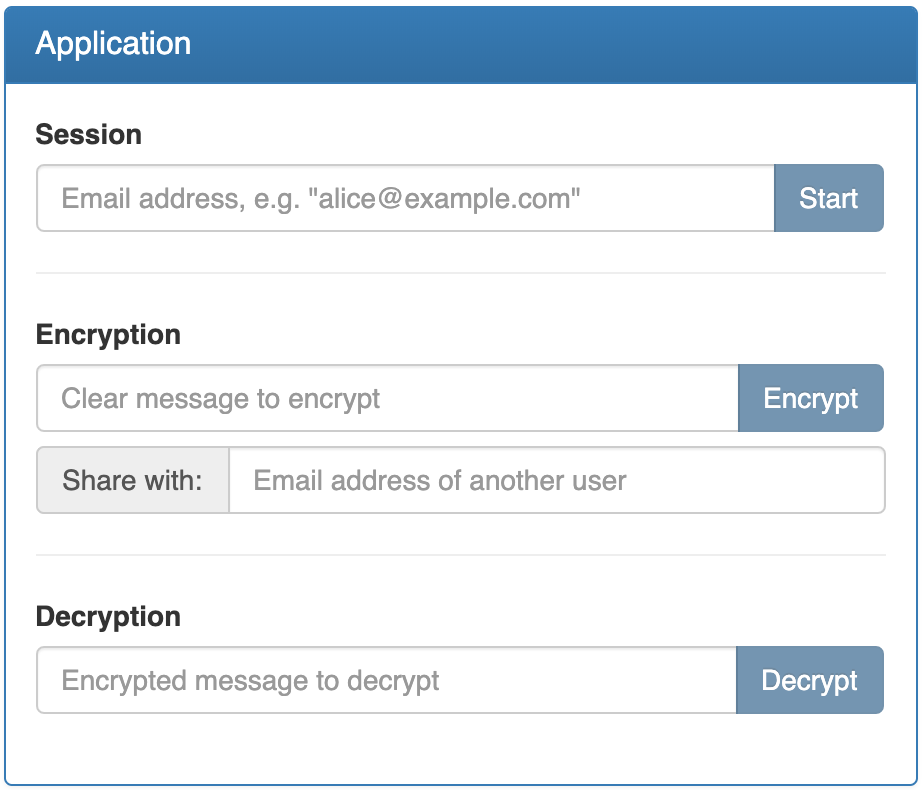
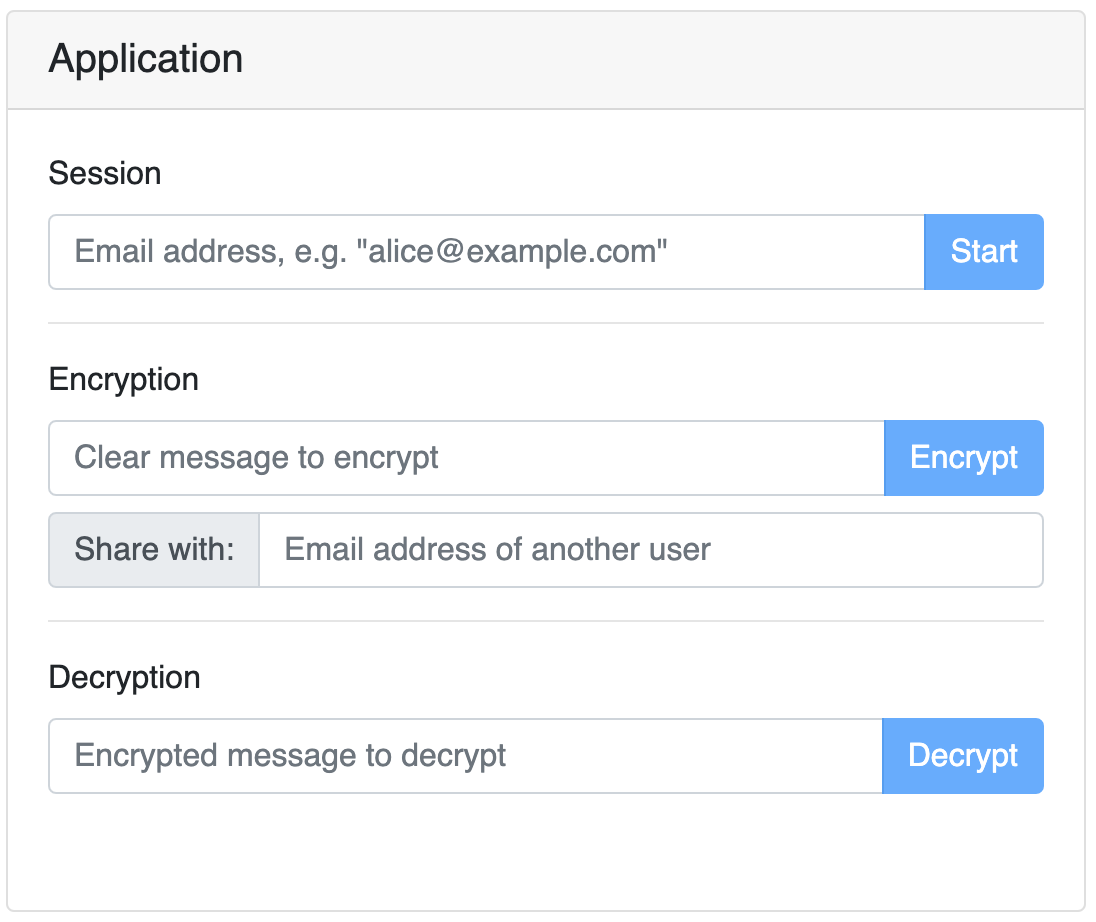
refactor(api-observer): migrate to bootstrap 4

Changed region(s): [[0.0, 0.0, 1.0, 1.0], [0.0304, 0.1519, 0.6377, 0.3038], [0.0304, 0.6987, 0.4859, 0.881]]

diff --git a/client/web/api-observer/src/App.js b/client/web/api-observer/src/App.js
@@ -1,9 +1,9 @@
 import React, { Component } from 'react';
-import { Button, Col, ControlLabel, FormGroup, FormControl, Grid, InputGroup, PageHeader, Panel, Row } from 'react-bootstrap';
+import { Button, Card, Col, Container, FormControl, FormGroup, FormLabel, InputGroup, Row } from 'react-bootstrap';
 import * as emailValidator from 'email-validator';
 import Tanker, { toBase64, fromBase64, errors } from '@tanker/client-browser';
 
-import { getEntry, LogPanel } from './log';
+import { getEntry, LogCard } from './log';
 
 const {
   STOPPED,
@@ -205,20 +205,33 @@ class App extends Component {
     const sessionButtonDisabled = email === '' || !emailValidator.validate(email) || [STOPPED, READY].indexOf(this.tanker.status) === -1;
     const encryptButtonDisabled = sessionButtonDisabled || clearText === '' || (!!shareWith && !emailValidator.validate(shareWith));
 
+    const sessionButtonType = (loading || this.tanker.status !== READY) ? 'Start' : 'Stop';
+    const sessionButton = (
+      <Button
+        variant="primary"
+        onClick={sessionButtonType === 'Start' ? this.onStart : this.onStop}
+        disabled={sessionButtonDisabled}
+      >
+        {sessionButtonType}
+      </Button>
+    );
+
     return (
-      <Grid>
+      <Container>
         <Row>
-          <Col lgOffset={1} md={12} lg={10}>
-
-            <PageHeader>Tanker API Observer</PageHeader>
-
+          <Col md={12}>
+            <div className="page-header">
+              <h1>Tanker API Observer</h1>
+            </div>
             <Row>
-              <Col md={6}>
-                <Panel bsStyle="primary">
-                  <Panel.Heading><Panel.Title componentClass="h5">Application</Panel.Title></Panel.Heading>
-                  <Panel.Body>
+              <Col lg={6} md={12}>
+                <Card variant="primary">
+                  <Card.Header>
+                    <Card.Title>Application</Card.Title>
+                  </Card.Header>
+                  <Card.Body>
                     <FormGroup>
-                      <ControlLabel>Session</ControlLabel>
+                      <FormLabel>Session</FormLabel>
                       <InputGroup>
                         <FormControl
                           id="email"
@@ -237,31 +250,14 @@ class App extends Component {
                           }}
                           disabled={loading || this.tanker.status !== STOPPED}
                         />
-                        <InputGroup.Button>
-                          {(loading || this.tanker.status !== READY) && (
-                            <Button
-                              bsStyle="primary"
-                              onClick={this.onStart}
-                              disabled={sessionButtonDisabled}
-                            >
-                              Start
-                            </Button>
-                          )}
-                          {!loading && this.tanker.status === READY && (
-                            <Button
-                              bsStyle="danger"
-                              onClick={this.onStop}
-                              disabled={sessionButtonDisabled}
-                            >
-                              Stop
-                            </Button>
-                          )}
-                        </InputGroup.Button>
+                        <InputGroup.Append>
+                          {sessionButton}
+                        </InputGroup.Append>
                       </InputGroup>
                     </FormGroup>
                     <hr />
                     <FormGroup>
-                      <ControlLabel>Encryption</ControlLabel>
+                      <FormLabel>Encryption</FormLabel>
                       <InputGroup>
                         <FormControl
                           id="clearText"
@@ -274,18 +270,20 @@ class App extends Component {
                             }
                           }}
                         />
-                        <InputGroup.Button>
+                        <InputGroup.Append>
                           <Button
-                            bsStyle="primary"
+                            variant="primary"
                             onClick={this.onEncrypt}
                             disabled={encryptButtonDisabled}
                           >
                             Encrypt
                           </Button>
-                        </InputGroup.Button>
+                        </InputGroup.Append>
                       </InputGroup>
                       <InputGroup style={{ marginTop: '.5em' }}>
-                        <InputGroup.Addon>Share with:</InputGroup.Addon>
+                        <InputGroup.Prepend>
+                          <InputGroup.Text>Share with:</InputGroup.Text>
+                        </InputGroup.Prepend>
                         <FormControl
                           id="shareWith"
                           name="shareWith"
@@ -297,7 +295,7 @@ class App extends Component {
                     </FormGroup>
                     <hr />
                     <FormGroup>
-                      <ControlLabel>Decryption</ControlLabel>
+                      <FormLabel>Decryption</FormLabel>
                       <InputGroup>
                         <FormControl
                           id="encryptedText"
@@ -310,27 +308,27 @@ class App extends Component {
                             }
                           }}
                         />
-                        <InputGroup.Button>
+                        <InputGroup.Append>
                           <Button
-                            bsStyle="primary"
+                            variant="primary"
                             onClick={this.onDecrypt}
                             disabled={encryptedText === ''}
                           >
                             Decrypt
                           </Button>
-                        </InputGroup.Button>
+                        </InputGroup.Append>
                       </InputGroup>
                     </FormGroup>
-                  </Panel.Body>
-                </Panel>
+                  </Card.Body>
+                </Card>
               </Col>
-              <Col md={6}>
-                <LogPanel entries={log} />
+              <Col lg={6} md={12}>
+                <LogCard entries={log} />
               </Col>
             </Row>
           </Col>
         </Row>
-      </Grid>
+      </Container>
     );
   }
 }

diff --git a/client/web/api-observer/public/index.html b/client/web/api-observer/public/index.html
@@ -5,9 +5,12 @@
   <meta charset="utf-8">
   <meta name="viewport" content="width=device-width, initial-scale=1, shrink-to-fit=no">
   <meta name="theme-color" content="#000000">
-  <link rel="stylesheet" href="https://maxcdn.bootstrapcdn.com/bootstrap/3.3.7/css/bootstrap.min.css" integrity="sha384-BVYiiSIFeK1dGmJRAkycuHAHRg32OmUcww7on3RYdg4Va+PmSTsz/K68vbdEjh4u" crossorigin="anonymous">
-  <link rel="stylesheet" href="https://maxcdn.bootstrapcdn.com/bootstrap/3.3.7/css/bootstrap-theme.min.css" integrity="sha384-rHyoN1iRsVXV4nD0JutlnGaslCJuC7uwjduW9SVrLvRYooPp2bWYgmgJQIXwl/Sp" crossorigin="anonymous">
-
+  <link
+    rel="stylesheet"
+    href="https://maxcdn.bootstrapcdn.com/bootstrap/4.4.1/css/bootstrap.min.css"
+    integrity="sha384-Vkoo8x4CGsO3+Hhxv8T/Q5PaXtkKtu6ug5TOeNV6gBiFeWPGFN9MuhOf23Q9Ifjh"
+    crossorigin="anonymous"
+  />
   <link rel="shortcut icon" href="%PUBLIC_URL%/favicon.ico">
   <!--
       Notice the use of %PUBLIC_URL% in the tags above.

diff --git a/client/web/api-observer/src/log/LogCard.js b/client/web/api-observer/src/log/LogCard.js
@@ -1,16 +1,16 @@
 import React from 'react';
-import { Badge, Panel } from 'react-bootstrap';
+import { Badge, Card } from 'react-bootstrap';
 
 import LogEntry from './LogEntry';
 
-const LogPanel = ({ entries }) => (
-  <Panel>
-    <Panel.Heading>
-      <Panel.Title componentClass="h5">
-        Application log <Badge id="log-badge">{entries.length}</Badge>
-      </Panel.Title>
-    </Panel.Heading>
-    <Panel.Body>
+const LogCard = ({ entries }) => (
+  <Card>
+    <Card.Header>
+      <Card.Title>
+        Application log <Badge id="log-badge" variant="secondary">{entries.length}</Badge>
+      </Card.Title>
+    </Card.Header>
+    <Card.Body>
       {entries.map(entry => (
         <LogEntry
           key={entry.id}
@@ -23,8 +23,8 @@ const LogPanel = ({ entries }) => (
           {entry.body}
         </LogEntry>
       ))}
-    </Panel.Body>
-  </Panel>
+    </Card.Body>
+  </Card>
 );
 
-export default LogPanel;
+export default LogCard;

diff --git a/client/web/api-observer/src/index.css b/client/web/api-observer/src/index.css
@@ -1,17 +1,39 @@
+html {
+  font-size: 14px;
+}
+
 body {
   margin: 0;
   padding: 0;
   font-family: sans-serif;
 }
 
-.panel-body {
+@media (min-width: 1330px) {
+  .container {
+    max-width: 1300px;
+  }
+}
+
+.page-header {
+  padding-bottom: 9px;
+  margin: 40px 0 20px;
+  border-bottom: 1px solid #eee;
+}
+
+.page-header h1 {
+  font-size: 36px;
+}
+
+.card {
+  margin-bottom: 20px;
+}
+
+.card-title {
+  margin-bottom: 0;
+}
+
+.card-body {
   min-height: 350px;
   max-height: calc(100vh - 200px);
   overflow: auto;
-}
-
-@media (min-width: 1330px) {
-  .container {
-    width: 1300px;
-  }
 }

diff --git a/client/web/api-observer/src/log/index.js b/client/web/api-observer/src/log/index.js
@@ -1,4 +1,4 @@
-import LogPanel from './LogPanel';
+import LogCard from './LogCard';
 import entries from './entries';
 
 let entryLastId = 0;
@@ -41,5 +41,5 @@ const getEntry = (...args) => {
 
 export {
     getEntry,
-    LogPanel
+    LogCard
 };

diff --git a/client/web/api-observer/src/log/LogEntry.css b/client/web/api-observer/src/log/LogEntry.css
@@ -1,5 +1,8 @@
 pre {
   border: none;
+  border-radius: 4px;
+  background-color: #f5f5f5;
+  padding: 9.5px;
 }
 
 .hljs {
